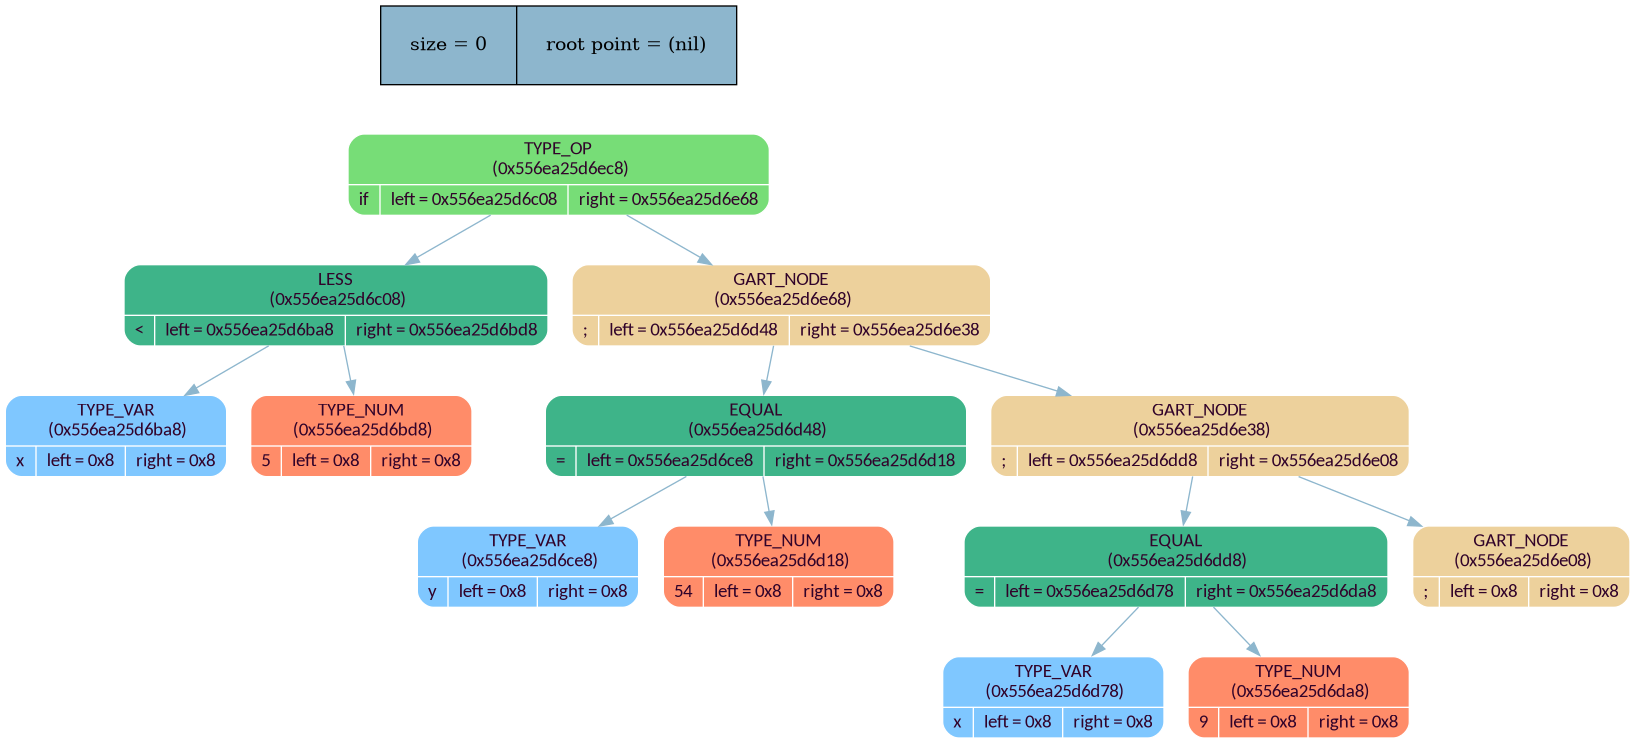
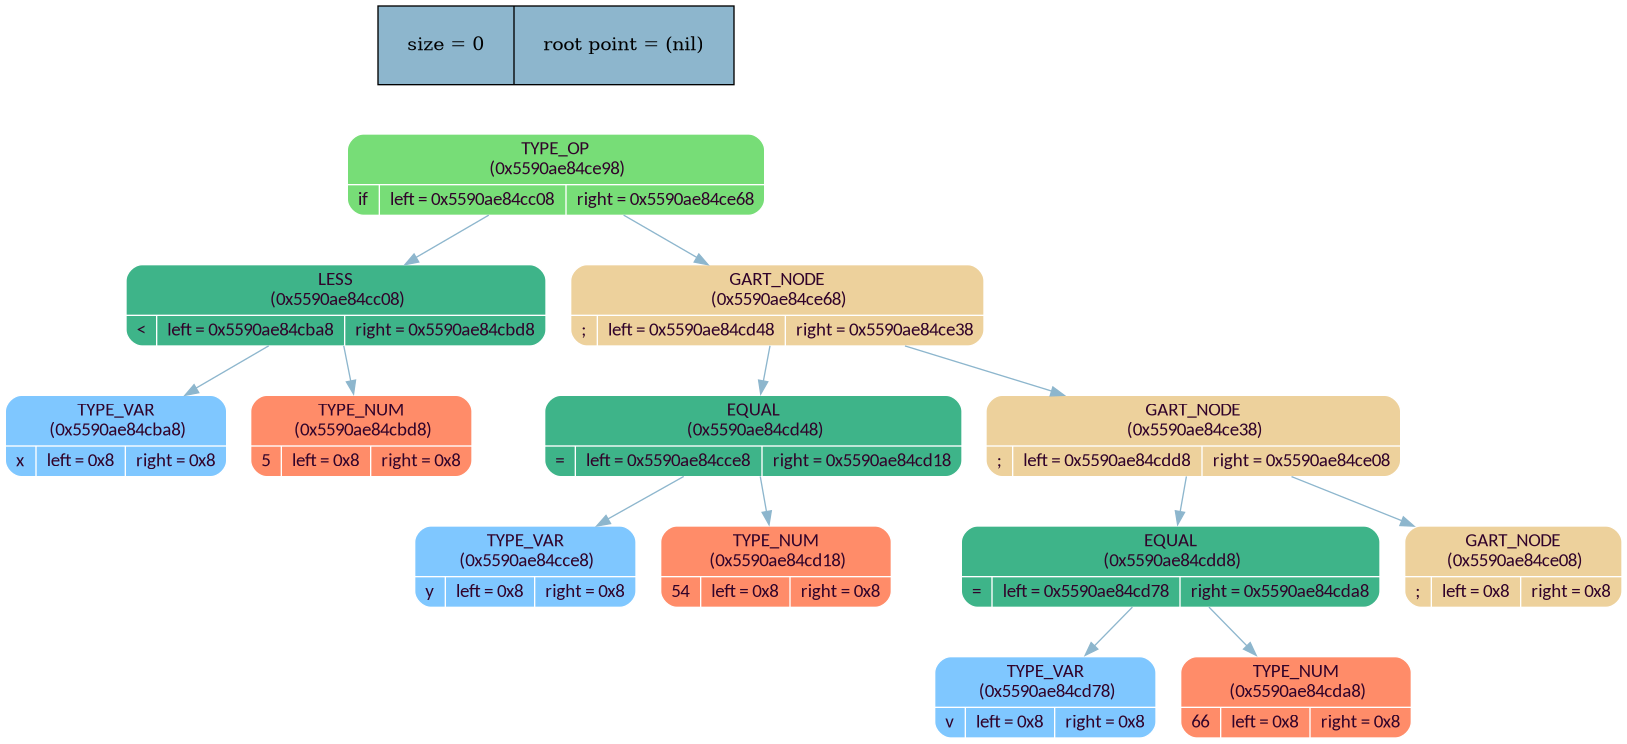
change logic of prog

diff --git a/logs/log_file.html b/logs/log_file.html
@@ -2,47 +2,32 @@
 
 <font color = #8DB6CD size=6>Tree was successfully created</font>
 
-<font color = #7FC7FF size=5>Created TYPE_VAR node: address (0x556ea25d6ba8) | var    (x)</font>
-<font color = #FF8C69 size=5>Created TYPE_NUM node: address (0x556ea25d6bd8) | value  (5)</font>
-<font color = #77DD77 size=5>Created TYPE_OP  node: address (0x556ea25d6c08) | op_code (60)</font>
-<font color = #6018CF size=5>Created edge: parent address (0x556ea25d6c08)   | op_code (60); left  (0x556ea25d6ba8)  | op_code (120)</font>
-<font color = #6018CF size=5>Created edge: parent address (0x556ea25d6c08)   | op_code (60); right  (0x556ea25d6bd8) | op_code (10)</font>
-<font color = #7FC7FF size=5>Created TYPE_VAR node: address (0x556ea25d6ce8) | var    (x)</font>
-<font color = #FF8C69 size=5>Created TYPE_NUM node: address (0x556ea25d6d18) | value  (54)</font>
-<font color = #77DD77 size=5>Created TYPE_OP  node: address (0x556ea25d6d48) | op_code (61)</font>
-<font color = #6018CF size=5>Created edge: parent address (0x556ea25d6d48)   | op_code (61); left  (0x556ea25d6ce8)  | op_code (120)</font>
-<font color = #6018CF size=5>Created edge: parent address (0x556ea25d6d48)   | op_code (61); right  (0x556ea25d6d18) | op_code (10)</font>
-<font color = #7FC7FF size=5>Created TYPE_VAR node: address (0x556ea25d6d78) | var    (x)</font>
-<font color = #FF8C69 size=5>Created TYPE_NUM node: address (0x556ea25d6da8) | value  (9)</font>
-<font color = #77DD77 size=5>Created TYPE_OP  node: address (0x556ea25d6dd8) | op_code (61)</font>
-<font color = #6018CF size=5>Created edge: parent address (0x556ea25d6dd8)   | op_code (61); left  (0x556ea25d6d78)  | op_code (120)</font>
-<font color = #6018CF size=5>Created edge: parent address (0x556ea25d6dd8)   | op_code (61); right  (0x556ea25d6da8) | op_code (10)</font>
-<font color = #77DD77 size=5>Created TYPE_OP  node: address (0x556ea25d6e08) | op_code (59)</font>
-<font color = #77DD77 size=5>Created TYPE_OP  node: address (0x556ea25d6e38) | op_code (59)</font>
-<font color = #6018CF size=5>Created edge: parent address (0x556ea25d6e38)   | op_code (59); left  (0x556ea25d6dd8)  | op_code (61)</font>
-<font color = #6018CF size=5>Created edge: parent address (0x556ea25d6e38)   | op_code (59); right  (0x556ea25d6e08) | op_code (59)</font>
-<font color = #77DD77 size=5>Created TYPE_OP  node: address (0x556ea25d6e68) | op_code (59)</font>
-<font color = #6018CF size=5>Created edge: parent address (0x556ea25d6e68)   | op_code (59); left  (0x556ea25d6d48)  | op_code (61)</font>
-<font color = #6018CF size=5>Created edge: parent address (0x556ea25d6e68)   | op_code (59); right  (0x556ea25d6e38) | op_code (59)</font>
-<font color = #77DD77 size=5>Created TYPE_OP  node: address (0x556ea25d6e98) | op_code (59)</font>
-<font color = #77DD77 size=5>Created TYPE_OP  node: address (0x556ea25d6ec8) | op_code (105)</font>
-<font color = #6018CF size=5>Created edge: parent address (0x556ea25d6ec8)   | op_code (105); left  (0x556ea25d6c08)  | op_code (60)</font>
-<font color = #6018CF size=5>Created edge: parent address (0x556ea25d6ec8)   | op_code (105); right  (0x556ea25d6e68) | op_code (59)</font>
-
-
-<font color = #8DB6CD size = 6>Here is the print of your tree</font>
-
-<img src = ../logs/log_pics/tree_d1.png width = 800 height = 350>
-<font color = orange size=5>Node was removed: address (0x556ea25d6ba8) </font>
-<font color = orange size=5>Node was removed: address (0x556ea25d6bd8) </font>
-<font color = orange size=5>Node was removed: address (0x556ea25d6c08) </font>
-<font color = orange size=5>Node was removed: address (0x556ea25d6ce8) </font>
-<font color = orange size=5>Node was removed: address (0x556ea25d6d18) </font>
-<font color = orange size=5>Node was removed: address (0x556ea25d6d48) </font>
-<font color = orange size=5>Node was removed: address (0x556ea25d6d78) </font>
-<font color = orange size=5>Node was removed: address (0x556ea25d6da8) </font>
-<font color = orange size=5>Node was removed: address (0x556ea25d6dd8) </font>
-<font color = orange size=5>Node was removed: address (0x556ea25d6e08) </font>
-<font color = orange size=5>Node was removed: address (0x556ea25d6e38) </font>
-<font color = orange size=5>Node was removed: address (0x556ea25d6e68) </font>
-<font color = orange size=5>Node was removed: address (0x556ea25d6ec8) </font>
+<font color = #7FC7FF size=5>Created TYPE_VAR node: address (0x5645bd356bb8) | var    (x)</font>
+<font color = #FF8C69 size=5>Created TYPE_NUM node: address (0x5645bd356be8) | value  (5)</font>
+<font color = #77DD77 size=5>Created TYPE_OP  node: address (0x5645bd356c18) | op_code (60)</font>
+<font color = #6018CF size=5>Created edge: parent address (0x5645bd356c18)   | op_code (60); left  (0x5645bd356bb8)  | op_code (120)</font>
+<font color = #6018CF size=5>Created edge: parent address (0x5645bd356c18)   | op_code (60); right  (0x5645bd356be8) | op_code (10)</font>
+<font color = #7FC7FF size=5>Created TYPE_VAR node: address (0x5645bd356cf8) | var    (x)</font>
+<font color = #FF8C69 size=5>Created TYPE_NUM node: address (0x5645bd356d28) | value  (54)</font>
+<font color = #77DD77 size=5>Created TYPE_OP  node: address (0x5645bd356d58) | op_code (61)</font>
+<font color = #6018CF size=5>Created edge: parent address (0x5645bd356d58)   | op_code (61); left  (0x5645bd356cf8)  | op_code (120)</font>
+<font color = #6018CF size=5>Created edge: parent address (0x5645bd356d58)   | op_code (61); right  (0x5645bd356d28) | op_code (10)</font>
+<font color = #7FC7FF size=5>Created TYPE_VAR node: address (0x5645bd356d88) | var    (x)</font>
+<font color = #FF8C69 size=5>Created TYPE_NUM node: address (0x5645bd356db8) | value  (66)</font>
+<font color = #77DD77 size=5>Created TYPE_OP  node: address (0x5645bd356de8) | op_code (61)</font>
+<font color = #6018CF size=5>Created edge: parent address (0x5645bd356de8)   | op_code (61); left  (0x5645bd356d88)  | op_code (120)</font>
+<font color = #6018CF size=5>Created edge: parent address (0x5645bd356de8)   | op_code (61); right  (0x5645bd356db8) | op_code (10)</font>
+<font color = #77DD77 size=5>Created TYPE_OP  node: address (0x5645bd356e18) | op_code (59)</font>
+<font color = #77DD77 size=5>Created TYPE_OP  node: address (0x5645bd356e48) | op_code (59)</font>
+<font color = #6018CF size=5>Created edge: parent address (0x5645bd356e48)   | op_code (59); left  (0x5645bd356de8)  | op_code (61)</font>
+<font color = #6018CF size=5>Created edge: parent address (0x5645bd356e48)   | op_code (59); right  (0x5645bd356e18) | op_code (59)</font>
+<font color = #77DD77 size=5>Created TYPE_OP  node: address (0x5645bd356e78) | op_code (59)</font>
+<font color = #6018CF size=5>Created edge: parent address (0x5645bd356e78)   | op_code (59); left  (0x5645bd356d58)  | op_code (61)</font>
+<font color = #6018CF size=5>Created edge: parent address (0x5645bd356e78)   | op_code (59); right  (0x5645bd356e48) | op_code (59)</font>
+<font color = #77DD77 size=5>Created TYPE_OP  node: address (0x5645bd356ea8) | op_code (59)</font>
+<font color = #77DD77 size=5>Created TYPE_OP  node: address (0x5645bd356ed8) | op_code (59)</font>
+<font color = #6018CF size=5>Created edge: parent address (0x5645bd356ed8)   | op_code (59); left  (0x5645bd356e78)  | op_code (59)</font>
+<font color = #6018CF size=5>Created edge: parent address (0x5645bd356ed8)   | op_code (59); right  (0x5645bd356ea8) | op_code (59)</font>
+<font color = #77DD77 size=5>Created TYPE_OP  node: address (0x5645bd356f08) | op_code (105)</font>
+<font color = #6018CF size=5>Created edge: parent address (0x5645bd356f08)   | op_code (105); left  (0x5645bd356c18)  | op_code (60)</font>
+<font color = #6018CF size=5>Created edge: parent address (0x5645bd356f08)   | op_code (105); right  (0x5645bd356ed8) | op_code (59)</font>

diff --git a/frontend/rec_descent.cpp b/frontend/rec_descent.cpp
@@ -18,7 +18,8 @@ tree_node_t* rec_descent (const char* file_dir)
 
 tree_node_t* get_end (const char* buffer, prog_data_t* prog_stat)
 {
-    tree_node_t* tree_node = get_operator (buffer, prog_stat);
+    tree_node_t* tree_node = get_begin (buffer, prog_stat);
+
 
     if (buffer[pos_in_file] != '$') syntax_error (S_UNREC_SYNTAX_ERROR, buffer, CUR_POS_IN_PROG);
     return tree_node;
@@ -30,10 +31,10 @@ tree_node_t* get_operator (const char* buffer, prog_data_t* prog_stat)
     {
         return get_if (buffer, prog_stat);
     }
-    else if (strncomp (buffer + pos_in_file, "end!\n", strlen ("end!\n"), STR_SKIP_SPACE))
-    {
-        return make_gart_node ();
-    }
+    // else if (strncomp (buffer + pos_in_file, "end!\n", strlen ("end!\n"), STR_SKIP_SPACE))
+    // {
+    //     return make_gart_node ();
+    // }
     return get_assign (buffer, prog_stat);
 }
 
@@ -43,16 +44,12 @@ tree_node_t* get_if (const char* buffer, prog_data_t* prog_stat)
 
     if (strncomp (buffer + pos_in_file, "then\n", strlen ("then\n"), STR_SKIP_SPACE))
     {
-        //tree_node_t* garten_node = make_gart_node ();
-        tree_node_t* expr_node   = get_begin (buffer, prog_stat);
-        //tree_link_l (garten_node, expr_node);
-        // tree_node_t* r_exp_node  = get_operator (buffer, prog_stat);
-        // tree_link_r (garten_node, r_exp_node);
+        tree_node_t* expr_node   = get_begin    (buffer, prog_stat);
 
-        get_end (buffer, prog_stat);
+        //get_end (buffer, prog_stat);
         return tree_new_op_node (OP_IF, cond_node, expr_node); // not return go to get right node (assigment or operator)
     }
-    return get_operator (buffer, prog_stat); //remove
+   // return get_operator (buffer, prog_stat); //remove
     syntax_error (S_UNREC_SYNTAX_ERROR, buffer, CUR_POS_IN_PROG);
 }
 
@@ -60,7 +57,10 @@ tree_node_t* get_begin (const char* buffer, prog_data_t* prog_stat)
 {
     if (strncomp (buffer + pos_in_file, "begin:\n", strlen ("begin:\n"), STR_SKIP_SPACE))
     {
-        return get_operator (buffer, prog_stat);
+        tree_node_t* l_exp   = get_operator (buffer, prog_stat);
+        tree_node_t* r_exp   = get_operator (buffer, prog_stat);
+
+        return make_gart_node (l_exp, r_exp);
     }
     syntax_error (S_UNREC_SYNTAX_ERROR, buffer, CUR_POS_IN_PROG);
 }
@@ -118,7 +118,8 @@ tree_node_t* get_assign (const char* buffer, prog_data_t* prog_stat)
 
 tree_node_t* get_area_end (const char* buffer, prog_data_t* prog_stat)
 {
-    printf ("here\n");
+
+    printf ("want to finish\n");
     if (strncomp (buffer + pos_in_file, "end!\n", strlen ("end!\n"), STR_SKIP_SPACE))
     {
         return make_gart_node ();
@@ -141,15 +142,20 @@ tree_node_t* get_ident (const char* buffer, prog_data_t* prog_stat) //add multis
         syntax_error (S_NO_MUL_OR_DIV_OP, buffer, CUR_POS_IN_PROG);
     }
 
-    if ((buffer[pos_in_file] >= 'a' && buffer[pos_in_file] <= 'z') ||
-        (buffer[pos_in_file] >= 'A' && buffer[pos_in_file] <= 'Z'))
+    if (((buffer[pos_in_file] >= 'a' && buffer[pos_in_file] <= 'z') ||
+        (buffer[pos_in_file] >= 'A' && buffer[pos_in_file] <= 'Z')) && buffer[pos_in_file] != 'e')
+
     {
         char var = buffer[pos_in_file];
+        printf ("%c -- char\n", var);
         pos_in_file++;
         return tree_new_var_node (TYPE_VAR, var);
     }
-    else return get_num  (buffer, prog_stat);
-
+    else
+    {
+       // printf ("here\n");
+        return get_num  (buffer, prog_stat);
+    }
 }
 
 tree_node_t* get_sign (const char* buffer, prog_data_t* prog_stat)
